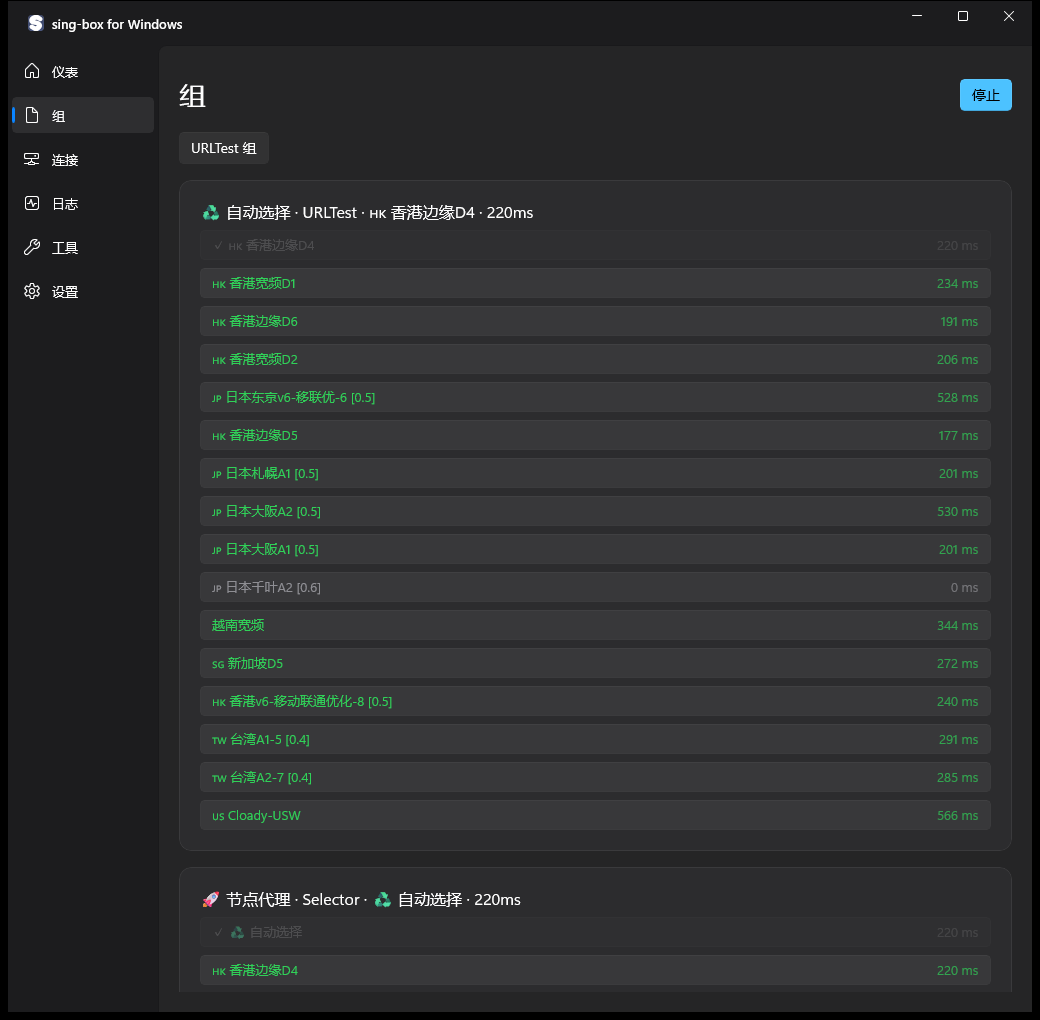
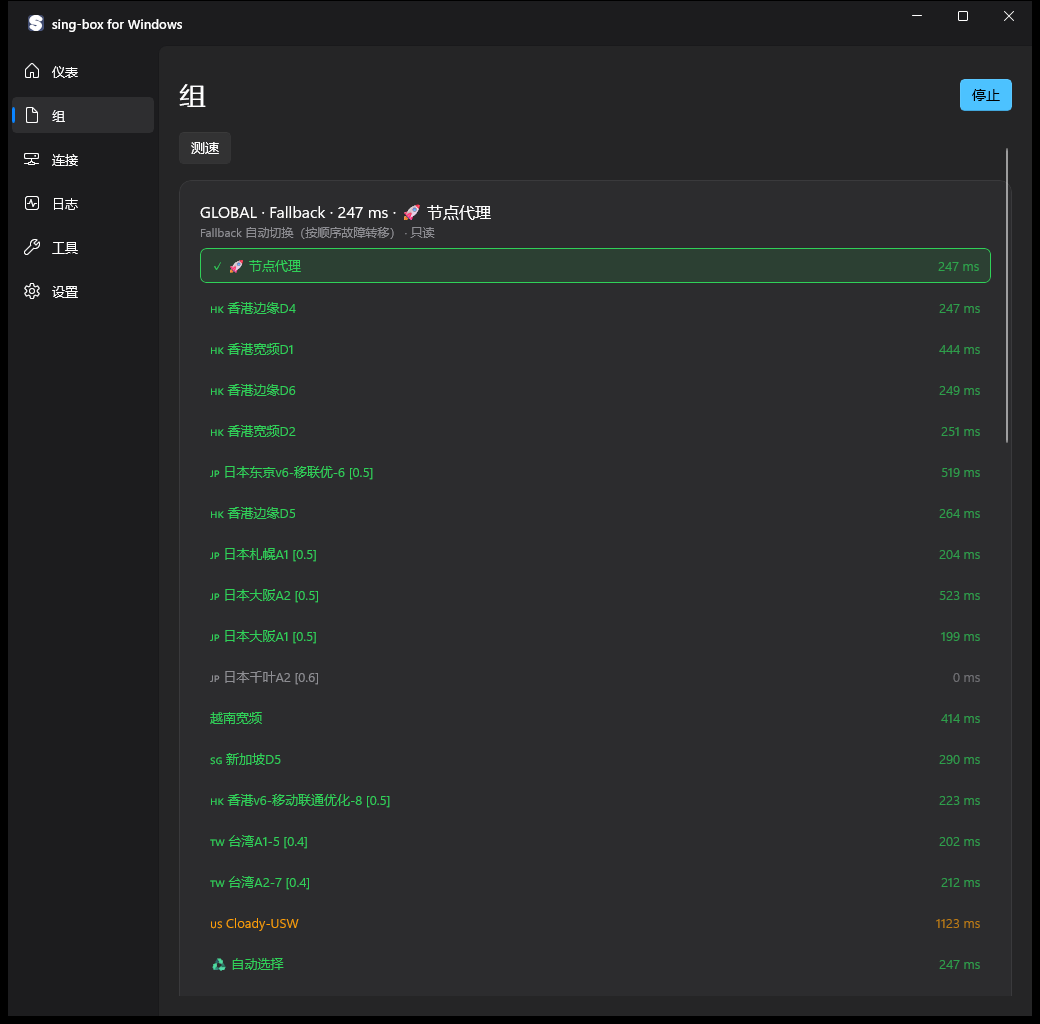
fix(v0.4.2): 组页只有 Selector 组可手动选节点，自动策略组只读；发布 zip 改正斜杠分层结构
- 引擎 /api/groups 下发全部带成员的分组（Selector + URLTest/Fallback/LoadBalance/Relay），新增 selectable 字段
- PUT /api/groups/{tag}/select 先判组类型：非 Selector 直接 409 中文提示，不再透出 Clash 的 400 Must be a Selector
- 前端组页：Selector 组点选切换；自动策略组成员行只读、组头标注策略（如「URLTest 自动选择（最低延迟）」）与「只读」，当前节点按 now 高亮，点击不发请求
- 新增 scripts/make-release-zip.py：Python zipfile 生成正斜杠标准 zip，顶层 app/ + 使用说明.txt + 「sing-box for Windows.cmd」便携启动器，并自带解压自校验
- build-native.ps1 不再用 Compress-Archive（反斜杠会把子目录拍平导致启动崩 0xC000027B）
- 版本升 0.4.2（引擎 const + csproj）；README 与组页截图同步更新

diff --git a/native/SingBoxWin.Native/Strings/zh-CN.xaml b/native/SingBoxWin.Native/Strings/zh-CN.xaml
@@ -95,6 +95,14 @@
  <x:String x:Key="Closed">已关闭</x:String>
  <x:String x:Key="Destination">目标地址</x:String>
  <x:String x:Key="Groups">组</x:String>
+ <x:String x:Key="TestLatency">测速</x:String>
+ <x:String x:Key="StrategySelector">手动选择</x:String>
+ <x:String x:Key="StrategyURLTest">URLTest 自动选择（最低延迟）</x:String>
+ <x:String x:Key="StrategyFallback">Fallback 自动切换（按顺序故障转移）</x:String>
+ <x:String x:Key="StrategyLoadBalance">LoadBalance 负载均衡（按权重分流）</x:String>
+ <x:String x:Key="StrategyRelay">Relay 链式转发</x:String>
+ <x:String x:Key="StrategyOther">自动策略</x:String>
+ <x:String x:Key="ReadOnlyGroup">只读</x:String>
  <x:String x:Key="Done">完成</x:String>
  <x:String x:Key="Reset">重置</x:String>
  <x:String x:Key="Rule">规则</x:String>

diff --git a/native/SingBoxWin.Native/Strings/en-US.xaml b/native/SingBoxWin.Native/Strings/en-US.xaml
@@ -95,6 +95,14 @@
  <x:String x:Key="Closed">Closed</x:String>
  <x:String x:Key="Destination">Destination</x:String>
  <x:String x:Key="Groups">Groups</x:String>
+ <x:String x:Key="TestLatency">Test latency</x:String>
+ <x:String x:Key="StrategySelector">Manual selection</x:String>
+ <x:String x:Key="StrategyURLTest">URLTest auto select (lowest latency)</x:String>
+ <x:String x:Key="StrategyFallback">Fallback auto failover (in order)</x:String>
+ <x:String x:Key="StrategyLoadBalance">LoadBalance (weighted)</x:String>
+ <x:String x:Key="StrategyRelay">Relay chain</x:String>
+ <x:String x:Key="StrategyOther">Automatic strategy</x:String>
+ <x:String x:Key="ReadOnlyGroup">Read-only</x:String>
  <x:String x:Key="Done">Done</x:String>
  <x:String x:Key="Reset">Reset</x:String>
  <x:String x:Key="Rule">Rule</x:String>

diff --git a/native/SingBoxWin.Native/NativePages.cs b/native/SingBoxWin.Native/NativePages.cs
@@ -2,6 +2,7 @@ using Microsoft.UI.Xaml;
 using Microsoft.UI.Xaml.Controls;
 using Microsoft.UI.Xaml.Documents;
 using Microsoft.UI.Xaml.Media;
+using System.Linq;
 using System.Text.Json.Nodes;
 using System.Text.RegularExpressions;
 using Windows.ApplicationModel.DataTransfer;
@@ -109,29 +110,44 @@ public sealed partial class MainWindow
     }
     private void RenderGroups(StackPanel body)
     {
-        body.Children.Add(Button("URLTest " + T("Groups"), async () => { await api.Call("groups/urltest", HttpMethod.Post); }));
+        body.Children.Add(Button(T("TestLatency"), async () => { await api.Call("groups/urltest", HttpMethod.Post); }));
         groupsPanel = new StackPanel { Spacing = 16 }; body.Children.Add(groupsPanel);
     }
+    private static string StrategyKey(string type) => type switch { "URLTest" => "StrategyURLTest", "Fallback" => "StrategyFallback", "LoadBalance" => "StrategyLoadBalance", "Relay" => "StrategyRelay", "Selector" => "StrategySelector", _ => "StrategyOther" };
     private async Task RefreshGroups()
     {
         var groups = await api.Call("groups") as JsonArray; if (page != "Groups" || groupsPanel is null) return;
         groupsPanel.Children.Clear(); if (groups is null || groups.Count == 0) { groupsPanel.Children.Add(Text(T("No data"))); return; }
         foreach (var g in groups) {
-            string tag = S(g, "tag"); var panel = new StackPanel { Spacing = 8 };
-            panel.Children.Add(Text($"{tag} · {S(g, "type")} · {S(g, "selected")} · {N(g, "delay"):0}ms", 16));
+            string tag = S(g, "tag"), type = S(g, "type"), selected = S(g, "selected");
+            bool selector = string.Equals(type, "Selector", StringComparison.OrdinalIgnoreCase);
+            var panel = new StackPanel { Spacing = 8 };
+            var header = new StackPanel { Spacing = 2 };
+            header.Children.Add(Text($"{tag} · {type} · {N(g, "delay"):0} ms{(selected == "" ? "" : " · " + selected)}", 16));
+            header.Children.Add(Text(T(StrategyKey(type)) + (selector ? "" : " · " + T("ReadOnlyGroup")), 12, "#8E8E93"));
+            panel.Children.Add(header);
             if (g?["members"] is JsonArray members) foreach (var m in members) {
-                string name = S(m, "tag"); double delay = N(m, "delay"); bool selected = name == S(g, "selected");
-                var button = Button("", async () => { await api.Call("groups/" + Uri.EscapeDataString(tag) + "/select", HttpMethod.Put, new { outbound = name }); });
+                string name = S(m, "tag"); double delay = N(m, "delay"); bool isNow = name == selected;
                 var memberRow = new Grid();
                 memberRow.ColumnDefinitions.Add(new ColumnDefinition { Width = new GridLength(1, GridUnitType.Star) });
                 memberRow.ColumnDefinitions.Add(new ColumnDefinition { Width = GridLength.Auto });
-                var label = Text((selected ? "✓ " : "") + name); label.HorizontalAlignment = HorizontalAlignment.Left; label.TextWrapping = TextWrapping.NoWrap; label.TextTrimming = TextTrimming.CharacterEllipsis;
+                var label = Text((isNow ? "✓ " : "") + name); label.HorizontalAlignment = HorizontalAlignment.Left; label.TextWrapping = TextWrapping.NoWrap; label.TextTrimming = TextTrimming.CharacterEllipsis;
                 var latency = Text($"{delay:0} ms"); latency.HorizontalAlignment = HorizontalAlignment.Right; latency.Opacity = .7; latency.Margin = new Thickness(12, 0, 0, 0);
                 Grid.SetColumn(label, 0); Grid.SetColumn(latency, 1); memberRow.Children.Add(label); memberRow.Children.Add(latency);
-                button.Content = memberRow; button.HorizontalContentAlignment = HorizontalAlignment.Stretch;
-                button.Foreground = Brush(delay == 0 ? "#8E8E93" : delay < 800 ? "#30D158" : delay <= 1500 ? "#FF9F0A" : "#FF453A");
-                if (selected) { button.BorderThickness = new Thickness(1); button.BorderBrush = Brush("#30D158"); }
-                button.HorizontalAlignment = HorizontalAlignment.Stretch; Enable(button, Session.IsConnectedStrict && !selected); panel.Children.Add(button);
+                var line = Brush(delay == 0 ? "#8E8E93" : delay < 800 ? "#30D158" : delay <= 1500 ? "#FF9F0A" : "#FF453A");
+                if (selector) {
+                    // Selector: clicking picks the node (PUT /api/groups/{tag}/select).
+                    var button = Button("", async () => { await api.Call("groups/" + Uri.EscapeDataString(tag) + "/select", HttpMethod.Put, new { outbound = name }); });
+                    button.Content = memberRow; button.HorizontalContentAlignment = HorizontalAlignment.Stretch; button.Foreground = line;
+                    if (isNow) { button.BorderThickness = new Thickness(1); button.BorderBrush = Brush("#30D158"); }
+                    button.HorizontalAlignment = HorizontalAlignment.Stretch; Enable(button, Session.IsConnectedStrict && !isNow); panel.Children.Add(button);
+                } else {
+                    // Automatic group (URLTest/Fallback/LoadBalance/Relay): read-only, no request on click.
+                    foreach (var child in memberRow.Children.ToArray()) if (child is TextBlock block) block.Foreground = line;
+                    var row = new Border { Child = memberRow, Padding = new Thickness(10, 8, 10, 8), CornerRadius = new CornerRadius(6), BorderThickness = new Thickness(isNow ? 1 : 0), BorderBrush = Brush("#30D158"), Opacity = Session.IsConnectedStrict ? 1 : .55 };
+                    if (isNow) row.Background = new SolidColorBrush(Microsoft.UI.ColorHelper.FromArgb(0x20, 0x30, 0xD1, 0x58));
+                    panel.Children.Add(row);
+                }
             }
             groupsPanel.Children.Add(Card(panel));
         }

diff --git a/scripts/make-release-zip.py b/scripts/make-release-zip.py
@@ -1,0 +1,93 @@
+#!/usr/bin/env python3
+# Build build/native.zip: forward-slash entries, runtime files under app/, plus a Chinese
+# readme and a portable launcher at the top level. Pure stdlib.
+import hashlib
+import os
+import posixpath
+import sys
+import tempfile
+import zipfile
+
+ROOT = os.path.dirname(os.path.dirname(os.path.abspath(__file__)))
+SRC = os.path.join(ROOT, "build", "native")
+OUT = os.path.join(ROOT, "build", "native.zip")
+
+README = "使用说明.txt"
+LAUNCHER = "sing-box for Windows.cmd"
+
+README_TEXT = "\r\n".join([
+    "sing-box for Windows",
+    "",
+    "使用步骤：",
+    "1. 解压到任意目录（建议不要放在需要管理员权限的目录）。",
+    "2. 双击「sing-box for Windows.cmd」，或直接运行 app\\SingBoxWin.Native.exe。",
+    "3. 数据（配置、日志、设置）保存在 %APPDATA%\\sing-box-win。",
+    "",
+    "提示：本 zip 内所有文件都放在 app\\ 目录下，启动器只是替你打开 app\\SingBoxWin.Native.exe。",
+    "",
+])
+
+LAUNCHER_TEXT = '@echo off\r\nstart "" "%~dp0app\\SingBoxWin.Native.exe"\r\n'
+
+
+def fail(message):
+    print("FAIL: " + message)
+    sys.exit(1)
+
+
+def add_text(zf, name, text, bom=True):
+    zf.writestr(name, text.encode("utf-8-sig" if bom else "utf-8"))
+
+
+def build():
+    if not os.path.isdir(SRC):
+        fail("input directory missing: " + SRC)
+    files = []
+    for dirpath, _dirnames, filenames in os.walk(SRC):
+        for filename in filenames:
+            full = os.path.join(dirpath, filename)
+            rel = os.path.relpath(full, SRC)
+            files.append((full, posixpath.join("app", *rel.split(os.sep))))
+    files.sort(key=lambda item: item[1])
+    if not files:
+        fail("no files in " + SRC)
+
+    os.makedirs(os.path.dirname(OUT), exist_ok=True)
+    with zipfile.ZipFile(OUT, "w", zipfile.ZIP_DEFLATED) as zf:
+        for full, arcname in files:
+            zf.write(full, arcname)
+        add_text(zf, README, README_TEXT)
+        add_text(zf, LAUNCHER, LAUNCHER_TEXT, bom=False)
+
+    verify(files)
+
+
+def verify(files):
+    with zipfile.ZipFile(OUT) as zf:
+        names = zf.namelist()
+        for name in names:
+            if "\\" in name:
+                fail("entry name contains a backslash: " + name)
+        if "app/Assets/app.ico" not in names:
+            fail("missing app/Assets/app.ico")
+        if not any(n.startswith("app/Strings/") and not n.endswith("/") for n in names):
+            fail("missing app/Strings/ files")
+        top = sorted(n for n in names if "/" not in n)
+        if top != sorted([README, LAUNCHER]):
+            fail("unexpected top-level entries: " + repr(top))
+        with tempfile.TemporaryDirectory() as tmp:
+            zf.extractall(tmp)
+            if not os.path.isdir(os.path.join(tmp, "app", "Assets")):
+                fail("app/Assets is not a directory after extraction")
+            if not os.path.isdir(os.path.join(tmp, "app", "Strings")):
+                fail("app/Strings is not a directory after extraction")
+
+    digest = hashlib.sha256()
+    with open(OUT, "rb") as f:
+        for chunk in iter(lambda: f.read(1 << 20), b""):
+            digest.update(chunk)
+    print("OK: %d app files, %d entries, %d bytes, sha256=%s" % (len(files), len(files) + 2, os.path.getsize(OUT), digest.hexdigest()))
+
+
+if __name__ == "__main__":
+    build()

diff --git a/cmd/singbox-win/pages.go b/cmd/singbox-win/pages.go
@@ -38,11 +38,12 @@ type GroupMember struct {
 	Delay float64 `json:"delay"`
 }
 type Group struct {
-	Tag      string        `json:"tag"`
-	Type     string        `json:"type"`
-	Selected string        `json:"selected"`
-	Delay    float64       `json:"delay"`
-	Members  []GroupMember `json:"members"`
+	Tag        string        `json:"tag"`
+	Type       string        `json:"type"`
+	Selected   string        `json:"selected"`
+	Selectable bool          `json:"selectable"`
+	Delay      float64       `json:"delay"`
+	Members    []GroupMember `json:"members"`
 }
 
 func (a *App) groups() ([]Group, error) {
@@ -75,12 +76,14 @@ func (a *App) groups() ([]Group, error) {
 			continue
 		}
 		typ, _ := p["type"].(string)
-		if !strings.EqualFold(typ, "Selector") && !strings.EqualFold(typ, "URLTest") {
+		// Clash only exposes groups with members through `all`: Selector, URLTest, Fallback,
+		// LoadBalance, Relay. Only Selector groups accept a manual pick, the rest are automatic.
+		all, _ := p["all"].([]any)
+		if len(all) == 0 {
 			continue
 		}
 		selected, _ := p["now"].(string)
-		g := Group{Tag: tag, Type: typ, Selected: selected, Members: []GroupMember{}}
-		all, _ := p["all"].([]any)
+		g := Group{Tag: tag, Type: typ, Selected: selected, Selectable: strings.EqualFold(typ, "Selector"), Members: []GroupMember{}}
 		for _, item := range all {
 			name, ok := item.(string)
 			if !ok {
@@ -195,14 +198,26 @@ func (a *App) pageAPI(w http.ResponseWriter, r *http.Request) bool {
 			a.unavailable(w, e)
 			break
 		}
+		var target *Group
+		for i := range groups {
+			if groups[i].Tag == tag {
+				target = &groups[i]
+				break
+			}
+		}
+		if target == nil {
+			http.Error(w, "group not found", 404)
+			break
+		}
+		if !target.Selectable {
+			http.Error(w, fmt.Sprintf("该组是自动策略组（%s），不支持手动选择节点；只有 Selector 组可以选。", target.Type), http.StatusConflict)
+			break
+		}
 		found := false
-		for _, g := range groups {
-			if g.Tag == tag {
-				for _, m := range g.Members {
-					if m.Tag == b.Outbound {
-						found = true
-					}
-				}
+		for _, m := range target.Members {
+			if m.Tag == b.Outbound {
+				found = true
+				break
 			}
 		}
 		if !found {

diff --git a/cmd/singbox-win/main.go b/cmd/singbox-win/main.go
@@ -30,7 +30,7 @@ import (
 	"time"
 )
 
-const version = "0.4.1"
+const version = "0.4.2"
 
 type Profile struct {
 	ID      string    `json:"id"`

diff --git a/README.md b/README.md
@@ -47,9 +47,9 @@ Clash 控制器另开随机 loopback 端口并配置每次启动随机密钥。U
 
 Windows 使用当前用户命名互斥实现单实例；二次启动会通过 `runtime.json` 的 loopback 地址通知现有实例重新打开界面，深链参数也会转交。Linux 自检使用 flock，强杀不会留下阻塞锁。Settings 可一键注册/取消 `singboxwin://install-config?url=<encoded>`；Profiles 的「复制导入链接」使用输入框中的订阅 URL。导入链接含订阅地址，分享前请确认是否含凭据。
 
-节点卡片列出当前配置的 selector/urltest 分组、成员、当前选择和延迟；运行时使用 Clash API 切换 selector 及测速，停止时仍能读取配置分组。urltest 的选择由内核自动管理，手动切换被内核拒绝时显示原文错误。
+节点卡片列出当前配置的全部分组（`Selector` 以及 `URLTest` / `Fallback` / `LoadBalance` / `Relay` 等自动策略组）、成员、当前选择和延迟；运行时使用 Clash API 测速，停止时仍能读取配置分组。只有 `Selector` 组的成员行可以点击切换（`PUT /proxies/{group}`）；自动策略组的成员行是只读的，组头标明当前策略（如「URLTest 自动选择（最低延迟）」）与「只读」，当前生效节点按 `now` 字段高亮，点击不会向后端发请求，因此不再出现 `Clash API 400: Must be a Selector` 报错。
 
-界面按 SFM 的侧栏与卡片层级整理：16px 线性图标导航、浅蓝选中态、28px 内容边距、16px 卡片间隔、18px 卡片内距、单一主操作、上下行双曲线、中英及深浅色切换。截图取自 Windows 交互会话里真实运行的原生客户端（`build/native/SingBoxWin.Native.exe`）：[仪表](docs/screenshots/native-01-overview.png)、[组](docs/screenshots/native-02-groups.png)、[连接](docs/screenshots/native-03-connections.png)、[日志](docs/screenshots/native-04-logs.png)、[工具](docs/screenshots/native-05-tools.png)、[设置](docs/screenshots/native-06-settings.png)；另有[任务栏图标](docs/screenshots/native-07-taskbar-icon.png)、[程序图标](docs/screenshots/native-09-exe-icon.png) 与[图标各尺寸阶梯](docs/screenshots/native-10-icon-sizes.png)（16→256，浅色与深色任务栏各一行）。
+界面按 SFM 的侧栏与卡片层级整理：16px 线性图标导航、浅蓝选中态、28px 内容边距、16px 卡片间隔、18px 卡片内距、单一主操作、上下行双曲线、中英及深浅色切换。截图取自 Windows 交互会话里真实运行的原生客户端（`build/native/SingBoxWin.Native.exe`）：[仪表](docs/screenshots/native-01-overview.png)、[组](docs/screenshots/native-02-groups.png)、[组（自动策略组只读）](docs/screenshots/native-02b-groups-urltest.png)、[连接](docs/screenshots/native-03-connections.png)、[日志](docs/screenshots/native-04-logs.png)、[工具](docs/screenshots/native-05-tools.png)、[设置](docs/screenshots/native-06-settings.png)；另有[任务栏图标](docs/screenshots/native-07-taskbar-icon.png)、[程序图标](docs/screenshots/native-09-exe-icon.png) 与[图标各尺寸阶梯](docs/screenshots/native-10-icon-sizes.png)（16→256，浅色与深色任务栏各一行）。
 
 本版采用纯 Go 后台常驻引擎 + 原生 WinUI 3 界面方案，不提供托盘图标/右键菜单。关闭或最小化窗口后内核继续运行，重新双击 exe 可唤回界面；在 Settings 或侧栏点击退出以停止程序。不增加 cgo、npm 依赖。
 
